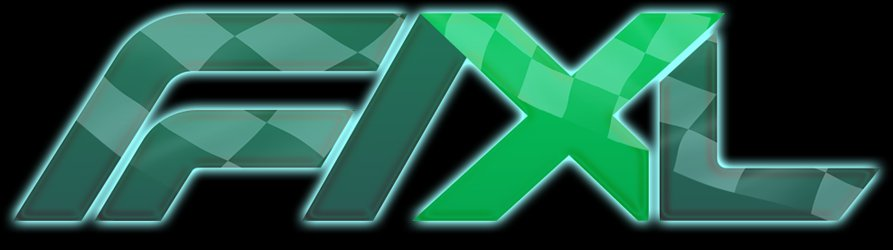
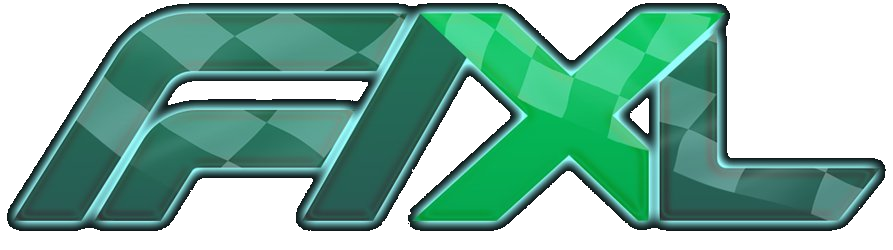
Add files via upload

diff --git a/index.html b/index.html
@@ -170,7 +170,7 @@
   <div class="hero-bg-word">F1XL</div>
   <div class="hero-accent"></div>
   <div class="hero-inner">
-    <img src="TRANSPARENT.png" alt="F1XL" style="width:clamp(160px,30vw,320px);height:auto;display:block;margin-bottom:24px;">
+    <img src="TRANSPARENT.png" alt="F1XL" style="width:clamp(240px,45vw,520px);height:auto;display:block;margin-bottom:28px;">
     <div class="hero-status">
       <div class="hero-status-dot"></div>
       <div class="hero-status-text" id="hero-status-text">Season 28 · Now Racing</div>
